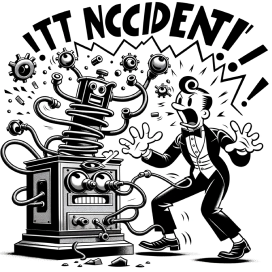
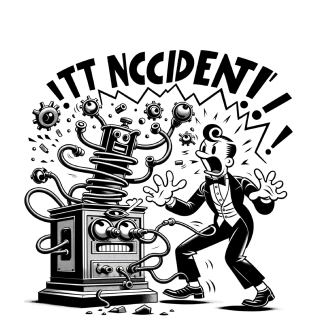
1

diff --git a/base.html b/base.html
@@ -126,17 +126,17 @@
                     <div class="intro__slider">
                       <div class="intro__media">
                         <!-- картинка 1440-768 -->
-                        <!-- <img src="./slide-images/Media.png" alt="слайд" /> -->
+                        <!-- <img src="./slide-images/Incident.png" alt="слайд" /> -->
                         <!-- картинка 768-640 -->
-                        <img
+                        <!-- <img
                           src="./slide-images/Incident-table.png"
                           alt="слайд"
-                        />
+                        /> -->
                         <!-- картинка 640-375 -->
-                        <!-- <img
+                        <img
                           src="./slide-images/Incident-mobile.png"
                           alt="слайд"
-                        /> -->
+                        />
                       </div>
                       <div class="intro__stack">
                         <div class="intro__text">
@@ -162,15 +162,15 @@
                         <!-- картинка 1440-768 -->
                         <!-- <img src="./slide-images/Media.png" alt="слайд" /> -->
                         <!-- картинка 768-640 -->
-                        <img
+                        <!-- <img
                           src="./slide-images/Incident-table.png"
                           alt="слайд"
-                        />
+                        /> -->
                         <!-- картинка 640-375 -->
-                        <!-- <img
+                        <img
                           src="./slide-images/Incident-mobile.png"
                           alt="слайд"
-                        /> -->
+                        />
                       </div>
                       <div class="intro__stack">
                         <div class="intro__text">
@@ -196,15 +196,15 @@
                         <!-- картинка 1440-768 -->
                         <!-- <img src="./slide-images/Media.png" alt="слайд" /> -->
                         <!-- картинка 768-640 -->
-                        <img
+                        <!-- <img
                           src="./slide-images/Incident-table.png"
                           alt="слайд"
-                        />
+                        /> -->
                         <!-- картинка 640-375 -->
-                        <!-- <img
+                        <img
                           src="./slide-images/Incident-mobile.png"
                           alt="слайд"
-                        /> -->
+                        />
                       </div>
                       <div class="intro__stack">
                         <div class="intro__text">

diff --git a/css/base.css b/css/base.css
@@ -270,6 +270,16 @@ input:valid + label {
   background: #ffffff;
   border-radius: 44px;
 }
+@media (max-width: 1280px) {
+  .intro__slider {
+    width: 1024px;
+  }
+}
+@media (max-width: 1024px) {
+  .intro__slider {
+    width: 960px;
+  }
+}
 @media (max-width: 1023px) {
   .intro__slider {
     flex-direction: column;
@@ -362,15 +372,16 @@ input:valid + label {
 }
 /*--------------swiper-----------------------*/
 .swiper {
-  width: 1152px;
+  max-width: 1152px;
+  width: 100%;
   height: 570px;
 }
-@media (max-width: 1023px) {
+/* @media (max-width: 1023px) {
   .swiper {
     width: 736px;
     height: 721px;
   }
-}
+} */
 .intro-button-prev,
 .intro-button-next {
   width: 88px;

diff --git a/js/swiper.js b/js/swiper.js
@@ -16,11 +16,11 @@ const swiper = new Swiper(".swiper", {
     prevEl: ".swiper-button-prev",
   },
   breakpoints: {
-    768: {
+    767: {
       slidesPerView: 1.8,
       spaceBetween: 16,
     },
-    1440: {
+    1023: {
       slidesPerView: 1,
       spaceBetween: 16,
     },
